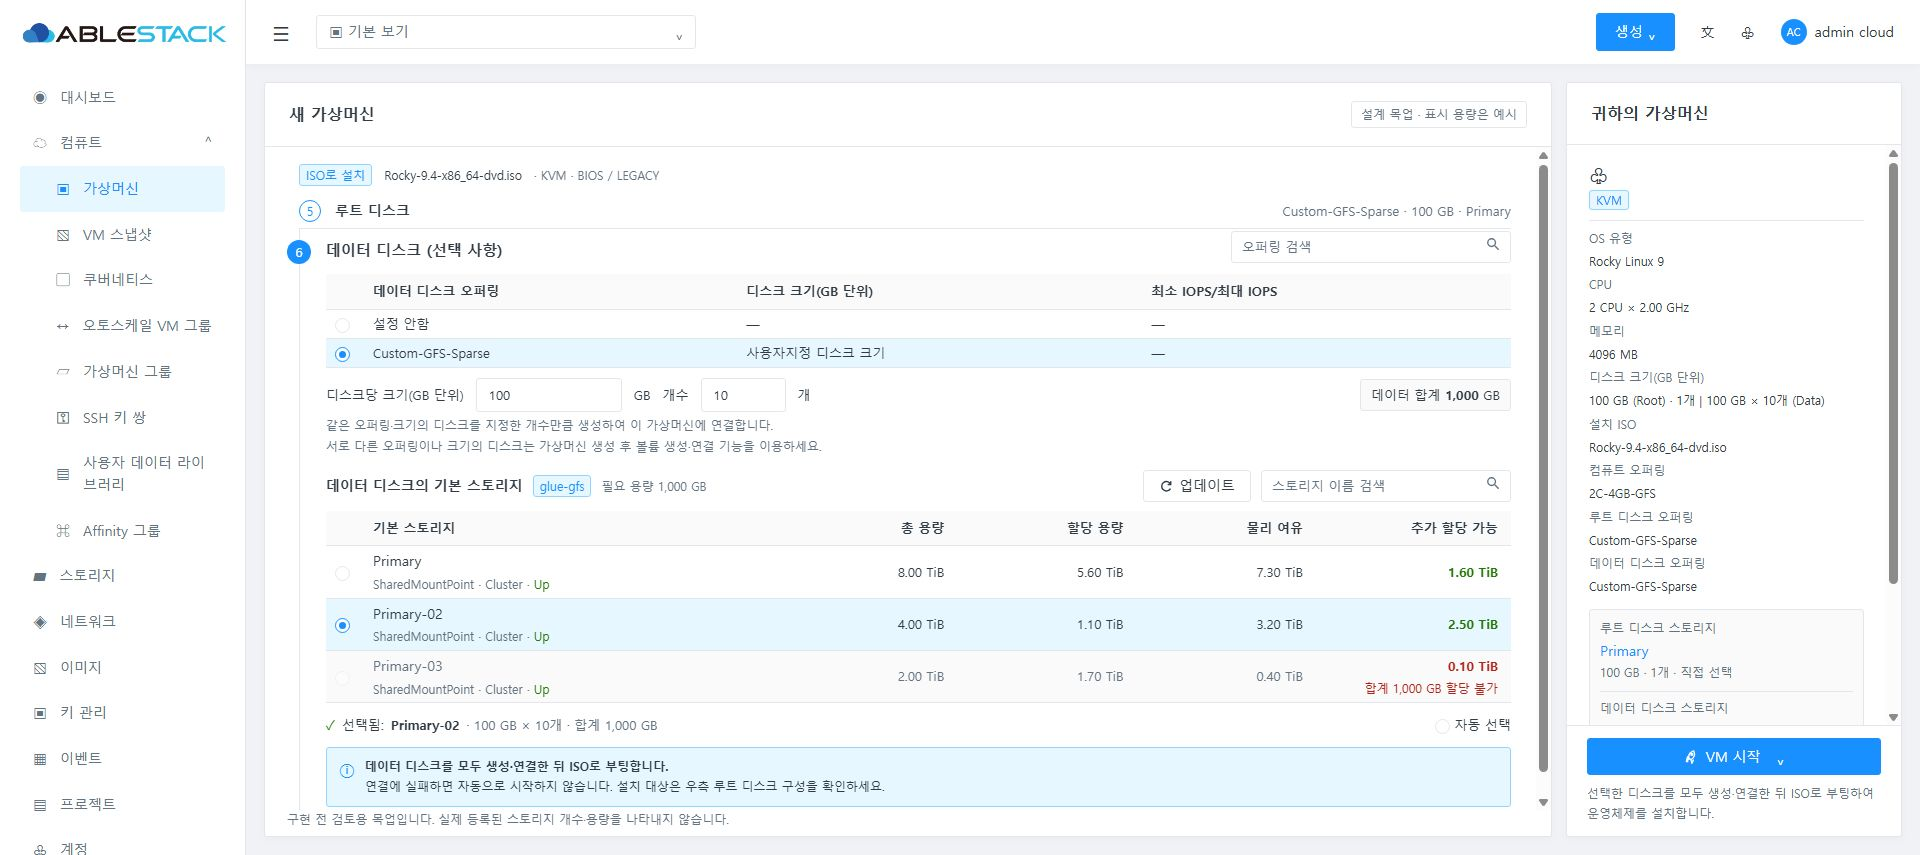
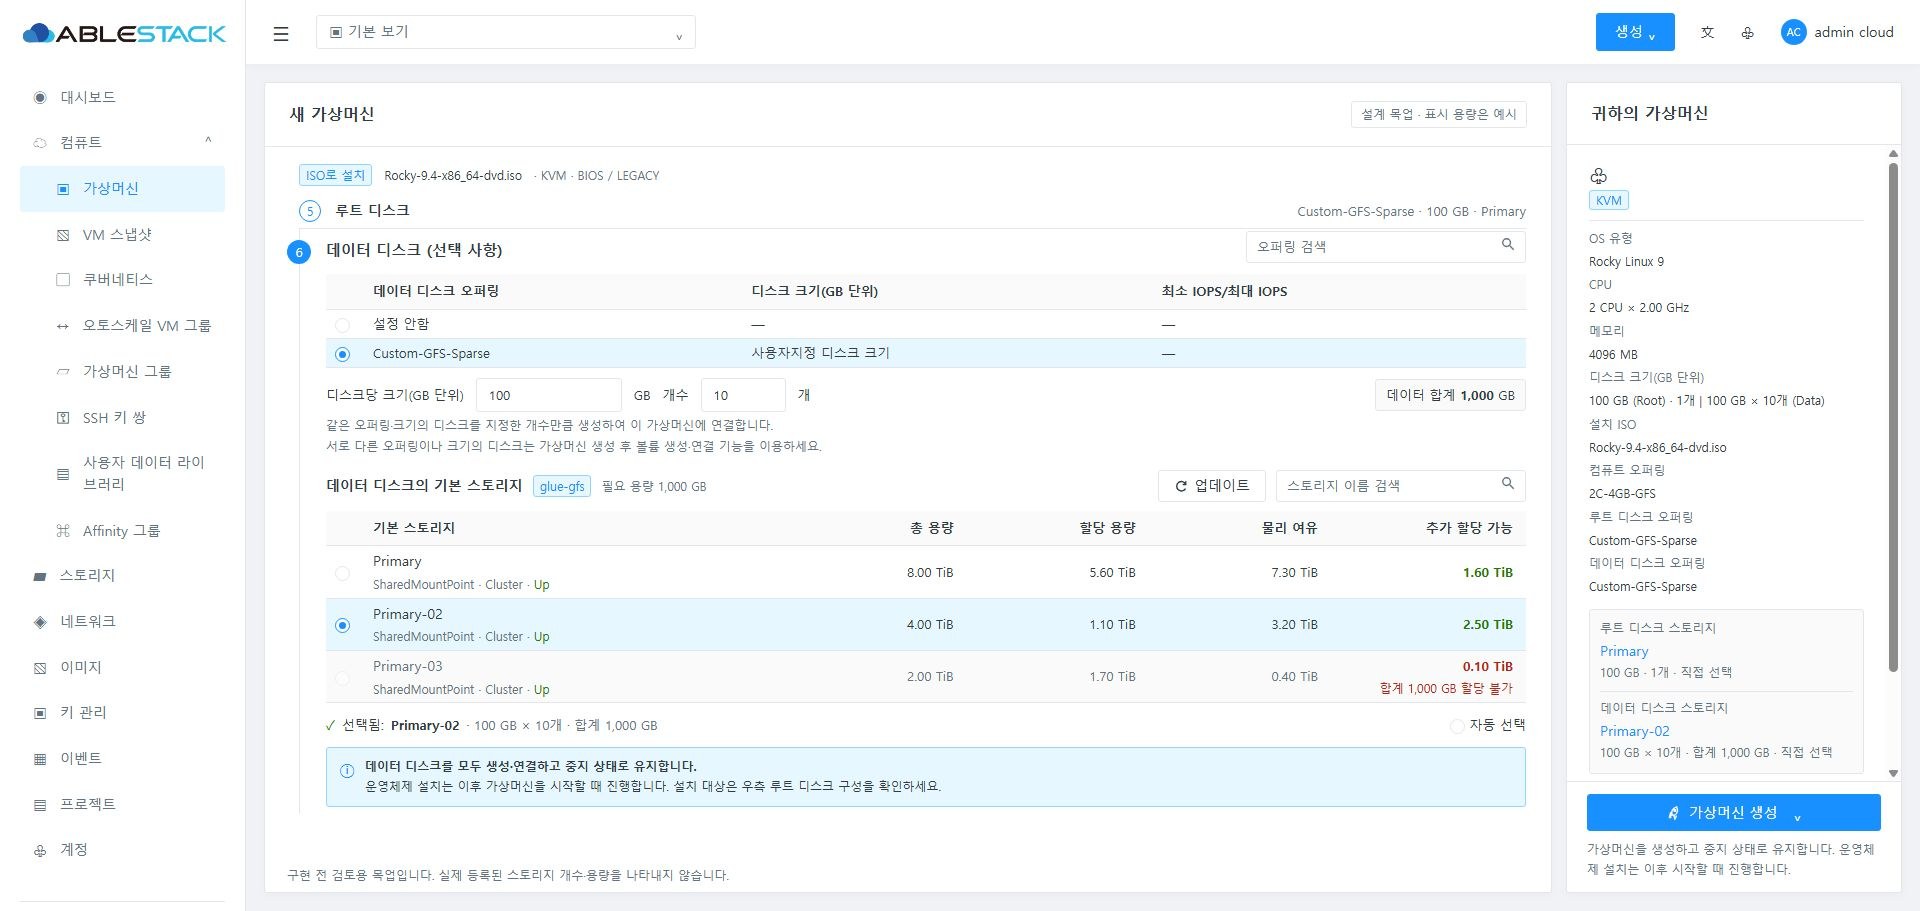
문서: VM 생성 후 바로 시작 기본 꺼짐 설계와 목업 반영

diff --git a/docs/design/vm-create-storage-selection-20261002/mockup.html b/docs/design/vm-create-storage-selection-20261002/mockup.html
@@ -128,6 +128,20 @@ body.isoview .iso-block .step-title{margin-bottom:12px}
 body.isoview .iso-block td{padding-top:4px;padding-bottom:4px}
 body.isoview .iso-block th{padding-top:7px;padding-bottom:7px}
 body.isoview .summary-inner .line{margin:5px 0}
+
+.details-block{display:none}body.detailsview .form.normal-block,body.detailsview .iso-block{display:none}body.detailsview .details-block{display:block}
+.details-context{font-size:12px;color:var(--muted);display:flex;align-items:center;gap:10px;padding:0 0 12px;border-bottom:1px solid var(--border)}
+.details-block .step{padding-top:14px;padding-bottom:12px}.details-block .step-num{top:15px}
+.details-block .review-note{font-size:13px;color:var(--muted);margin:0 0 14px}
+.detail-field{margin:0 0 13px;max-width:780px}.detail-field label{display:block;font-size:13px;margin-bottom:5px}
+.detail-input{background:var(--panel);border:1px solid var(--border);border-radius:3px;color:var(--text);height:32px;padding:5px 11px;width:100%;font-size:13px}
+.detail-number{width:100px}.detail-select{display:flex;justify-content:space-between;align-items:center}
+.start-toggle{border:0;background:#a1a6ab;border-radius:11px;width:40px;height:22px;position:relative;vertical-align:middle;cursor:pointer;padding:0}
+.start-toggle:before{content:"";position:absolute;top:3px;left:3px;border-radius:50%;background:#fff;width:16px;height:16px}
+.start-toggle[aria-checked="true"]{background:#1890ff}.start-toggle[aria-checked="true"]:before{left:21px}
+.start-toggle:focus-visible{outline:2px solid var(--blue);outline-offset:3px}.start-default-tag{margin-left:9px;font-size:12px}
+.start-option-help{font-size:12px;line-height:1.65;color:var(--muted);margin-top:8px}
+.details-block .review-selection{border-top:1px solid var(--border);padding-top:11px;margin-top:12px;font-size:12px;color:var(--muted)}
 </style></head><body>
 <svg style="position:absolute;width:0;height:0" aria-hidden="true"><defs>
 <symbol id="reload" viewBox="0 0 16 16"><path d="M13.3 5.7A5.4 5.4 0 1 0 13.2 11M13.4 2.7v3.5h-3.5"/></symbol>
@@ -183,7 +197,7 @@ body.isoview .summary-inner .line{margin:5px 0}
 <div class="summary-choice"><span class="check">✓</span> 선택됨: <strong>Primary-02</strong><span class="dim">· 데이터 <span class="data-configuration">500 GB</span></span><span style="margin-left:auto"><span class="radio"></span> 자동 선택</span></div>
 <div class="capacity-help"><span class="sym">ⓘ</span><span><b>물리 여유와 추가 할당 가능 용량은 서로 다를 수 있습니다.</b><br>할당 용량에는 예약 용량이 포함됩니다. 추가 할당 가능 용량은 스토리지 정책과 선택한 전체 디스크의 합산 용량으로 확인합니다.</span></div>
 </section>
-<div class="collapsed"><span class="completed">6</span><strong>네트워크</strong><span class="short-val">ADMIN-L2-Network</span></div><div class="collapsed"><span class="completed">7</span><strong>SSH 키 쌍</strong><span class="short-val">설정 안함</span></div><div class="collapsed"><span class="completed">8</span><strong>확장 모드</strong></div><div class="collapsed"><span class="completed">9</span><strong>상세</strong><span class="short-val">VM 1개 · 생성 후 시작</span></div>
+<div class="collapsed"><span class="completed">6</span><strong>네트워크</strong><span class="short-val">ADMIN-L2-Network</span></div><div class="collapsed"><span class="completed">7</span><strong>SSH 키 쌍</strong><span class="short-val">설정 안함</span></div><div class="collapsed"><span class="completed">8</span><strong>확장 모드</strong></div><div class="collapsed"><span class="completed">9</span><strong>상세</strong><span class="short-val">VM 1개 · 생성 후 중지</span></div>
 </div>
 
 <div class="iso-block form">
@@ -219,9 +233,22 @@ body.isoview .summary-inner .line{margin:5px 0}
 <div class="capacity-help"><span class="sym">ⓘ</span><span><b>데이터 디스크를 모두 생성·연결한 뒤 ISO로 부팅합니다.</b><br>연결에 실패하면 자동으로 시작하지 않습니다. 설치 대상은 우측 루트 디스크 구성을 확인하세요.</span></div>
 </section>
 </div>
+
+<div class="details-block form">
+<div class="details-context"><span class="tag" id="details-image-type">템플릿</span><span id="details-image-name">rocky-9-4-minimal.qcow22</span><span>· 컴퓨트: 2C-4GB-GFS · Zone</span></div>
+<section class="step"><span class="step-num" id="details-step-number">9</span><h2 class="step-title">상세</h2>
+<p class="review-note">설정 정보를 확인한 뒤 가상머신을 생성하세요.</p>
+<div class="detail-field"><label for="detail-vm-name">이름(옵션)</label><input class="detail-input" id="detail-vm-name" value="Storage-VM" placeholder="가상머신 이름"></div>
+<div class="detail-field"><label for="detail-vm-group">그룹(옵션)</label><input class="detail-input" id="detail-vm-group" placeholder="그룹 선택 또는 입력"></div>
+<div class="detail-field"><label>키보드 언어</label><div class="detail-input detail-select"><span>기본값</span><span class="dim">⌄</span></div></div>
+<div class="detail-field"><label for="detail-vm-count">생성할 가상머신 수</label><input class="detail-input detail-number" id="detail-vm-count" type="number" min="1" max="50" value="1"></div>
+<div class="detail-field"><label id="start-after-create-label">가상머신 생성 후 바로 시작</label><button type="button" role="switch" aria-checked="false" aria-labelledby="start-after-create-label" id="start-after-create" class="start-toggle"></button><span class="tag start-default-tag" id="start-option-state">기본값 · 꺼짐</span><p class="start-option-help" id="start-option-help">가상머신을 생성하고 중지 상태로 유지합니다. 생성 후 상세 화면에서 시작할 수 있습니다.</p></div>
+<div class="review-selection">선택한 루트·데이터 디스크의 오퍼링, 크기·개수와 기본 스토리지를 우측 요약에서 확인하세요.</div>
+</section>
+</div>
 <div class="state-block states"><h2 style="font-size:18px;margin:0">기본 스토리지 선택 · 예외 상태</h2><p class="dim">목록 영역 안에서 상태를 설명하고, 업데이트와 생성 버튼은 기존 상단·요약 영역을 사용합니다.</p>
 <div class="states-grid">
-<div class="case"><h3>1. 호환되는 스토리지 없음</h3><div class="storage-title"><strong>루트 디스크의 기본 스토리지</strong><button class="plain-button update" style="margin-left:auto"><svg class="ico"><use href="#reload"/></svg>업데이트</button></div><div class="empty"><div class="symbol">▱</div><b>선택한 오퍼링과 배포 조건에 맞는 기본 스토리지가 없습니다.</b><br>오퍼링 또는 배포 인프라를 변경하세요.</div><div class="blank-controls">직접 선택·자동 선택 모두 생성 조건을 만족하지 못하면 VM 시작 비활성화</div></div>
+<div class="case"><h3>1. 호환되는 스토리지 없음</h3><div class="storage-title"><strong>루트 디스크의 기본 스토리지</strong><button class="plain-button update" style="margin-left:auto"><svg class="ico"><use href="#reload"/></svg>업데이트</button></div><div class="empty"><div class="symbol">▱</div><b>선택한 오퍼링과 배포 조건에 맞는 기본 스토리지가 없습니다.</b><br>오퍼링 또는 배포 인프라를 변경하세요.</div><div class="blank-controls">직접 선택·자동 선택 모두 생성 조건을 만족하지 못하면 가상머신 생성 비활성화</div></div>
 <div class="case"><h3>2. 목록 또는 용량 조회 실패</h3><div class="storage-title"><strong>데이터 디스크의 기본 스토리지</strong><button class="plain-button update" style="margin-left:auto"><svg class="ico"><use href="#reload"/></svg>업데이트</button></div><div class="alert">스토리지 정보를 가져올 수 없습니다.<span>상단 업데이트를 눌러 다시 시도하세요. 확인 전에는 선택한 스토리지로 생성할 수 없습니다.</span></div><div class="empty" style="padding:24px">이전에 조회한 목록을 유지하며 변경되지 않은 행은 그대로 표시</div><div class="blank-controls">용량 미확인 값을 0 또는 충분으로 표시하지 않음</div></div>
 <div class="case"><h3>3. 선택 후 용량 또는 상태 변경</h3><div class="storage-title"><strong>데이터 디스크의 기본 스토리지</strong><button class="plain-button update" style="margin-left:auto"><svg class="ico"><use href="#reload"/></svg>업데이트</button></div><div class="alert">선택한 Primary-02에 500 GB를 할당할 수 없습니다.<span>용량 정보를 업데이트하고 다른 스토리지를 선택하세요.</span></div><table style="margin-top:14px"><thead><tr><th>기본 스토리지</th><th>추가 할당 가능</th></tr></thead><tbody><tr class="disabled-row"><td>Primary-02 <span class="subline">이전 선택 · 현재 선택 불가</span></td><td><span class="warn">0.10 TiB · 용량 부족</span></td></tr></tbody></table><div class="blank-controls">확인 없이 다른 스토리지로 자동 변경하지 않음</div></div>
 <div class="case"><h3>4. 데이터 디스크를 선택하지 않음</h3><table><thead><tr><th></th><th>디스크 오퍼링</th></tr></thead><tbody><tr class="selected"><td><span class="radio checked"></span></td><td>설정 안함</td></tr></tbody></table><div class="empty"><div class="symbol">▱</div>데이터 디스크 스토리지 선택 영역을 표시하지 않습니다.<br>루트 디스크 스토리지 선택은 유지합니다.</div><div class="blank-controls">다시 데이터 디스크를 선택하면 조건에 맞춰 목록을 새로 조회</div></div>
@@ -231,7 +258,7 @@ body.isoview .summary-inner .line{margin:5px 0}
 <div class="line"><span class="label">OS 유형</span><span class="val">Rocky Linux 9</span></div><div class="line"><span class="label">CPU</span><span class="val">2 CPU × 2.00 GHz</span></div><div class="line"><span class="label">메모리</span><span class="val">4096 MB</span></div><div class="line"><span class="label">디스크 크기(GB 단위)</span><span class="val"><span class="root-size-value">100</span> GB (Root) | <span class="data-summary">500 GB (Data)</span></span></div><div class="line"><span class="label">템플릿</span><span class="val">rocky-9-4-minimal.qcow22</span></div><div class="line"><span class="label">컴퓨트 오퍼링</span><span class="val">2C-4GB-GFS</span></div><div class="line"><span class="label">디스크 오퍼링</span><span class="val"><span class="data-offering-name">Custom-GFS-Sparse</span> (Data)</span></div>
 <div class="storage-box"><div class="entry"><span class="label">루트 디스크 스토리지</span><span class="name">Primary</span><span class="desc"><span class="root-size-value">100</span> GB · 직접 선택</span></div><div class="entry"><span class="label">데이터 디스크 스토리지</span><span class="name">Primary-02</span><span class="desc"><span class="data-configuration">500 GB</span> · 직접 선택</span></div></div>
 <div class="line"><span class="label">Zone</span><span class="val">Zone</span></div><div class="line"><span class="label">부팅 유형 / 부팅 모드</span><span class="val">BIOS / LEGACY</span></div>
-</div><div class="summary-actions"><button class="blue-button start-button"><svg class="ico"><use href="#rocket"/></svg>VM 시작<span style="margin-left:8px">⌄</span></button><p class="summary-note">선택한 스토리지의 호환성과 용량을 확인한 뒤 생성합니다.</p>
+</div><div class="summary-actions"><button class="blue-button start-button"><svg class="ico"><use href="#rocket"/></svg><span id="deploy-button-label">가상머신 생성</span><span style="margin-left:8px">⌄</span></button><p class="summary-note">선택한 스토리지의 호환성과 용량을 확인한 뒤 생성합니다.</p>
 </div></aside></div></div></div>
 <script>
[1 lines of base64/hex data omitted]
@@ -274,7 +301,7 @@ updateDataDiskExample();
 const isoMode=q.get('source')==='iso';
 if(isoMode){
  document.body.classList.add('isoview');
- const isoDataView=q.get('part')==='data';
+ const isoDataView=q.get('part')==='data'||(q.get('part')==='details'&&q.get('batch')==='on');
  document.body.classList.toggle('iso-rootview',!isoDataView);document.body.classList.toggle('iso-dataview',isoDataView);
  const isoFixedRoot=q.get('root-offering')==='fixed',isoFixedData=q.get('offering')==='fixed';
  document.body.classList.toggle('isofixedroot',isoFixedRoot);
@@ -315,4 +342,25 @@ if(isoMode){
  }
  isoRootInput.addEventListener('input',updateIsoExample);isoDataInput.addEventListener('input',updateIsoExample);isoCountInput.addEventListener('input',updateIsoExample);updateIsoExample();
 }
+
+const detailsMode=q.get('part')==='details';
+document.body.classList.toggle('detailsview',detailsMode);
+const startSwitch=document.getElementById('start-after-create');
+startSwitch.setAttribute('aria-checked',q.get('start')==='on'?'true':'false');
+if(isoMode){
+ document.getElementById('details-image-type').textContent='ISO로 설치';
+ document.getElementById('details-image-name').textContent='Rocky-9.4-x86_64-dvd.iso';
+ document.getElementById('details-step-number').textContent='10';
+}
+function updateStartOption(){
+ const enabled=startSwitch.getAttribute('aria-checked')==='true';
+ document.getElementById('deploy-button-label').textContent=enabled?'VM 시작':'가상머신 생성';
+ document.getElementById('start-option-state').textContent=enabled?'켜짐':'기본값 · 꺼짐';
+ document.getElementById('start-option-help').textContent=enabled?(isoMode?'모든 요청 디스크의 생성·연결이 완료되면 ISO로 부팅합니다. 디스크 연결 실패 시 자동으로 시작하지 않습니다.':'가상머신 생성이 완료되면 바로 시작합니다.'):'가상머신을 생성하고 중지 상태로 유지합니다. 생성 후 상세 화면에서 시작할 수 있습니다.';
+ document.querySelector('.summary-note').textContent=enabled?(isoMode?'선택한 디스크를 모두 생성·연결한 뒤 ISO로 부팅하여 운영체제를 설치합니다.':'설정한 디스크와 스토리지를 확인하고 가상머신을 생성한 뒤 바로 시작합니다.'):(isoMode?'가상머신을 생성하고 중지 상태로 유지합니다. 운영체제 설치는 이후 시작할 때 진행합니다.':'가상머신을 생성하고 중지 상태로 유지합니다. 생성 후 상세 화면에서 시작할 수 있습니다.');
+ const isoNote=document.querySelector('#iso-data .capacity-help span:last-child');
+ isoNote.innerHTML=enabled?'<b>데이터 디스크를 모두 생성·연결한 뒤 ISO로 부팅합니다.</b><br>연결에 실패하면 자동으로 시작하지 않습니다. 설치 대상은 우측 루트 디스크 구성을 확인하세요.':'<b>데이터 디스크를 모두 생성·연결하고 중지 상태로 유지합니다.</b><br>운영체제 설치는 이후 가상머신을 시작할 때 진행합니다. 설치 대상은 우측 루트 디스크 구성을 확인하세요.';
+}
+startSwitch.addEventListener('click',()=>{startSwitch.setAttribute('aria-checked',startSwitch.getAttribute('aria-checked')==='true'?'false':'true');updateStartOption();});
+updateStartOption();
 </script></body></html>
